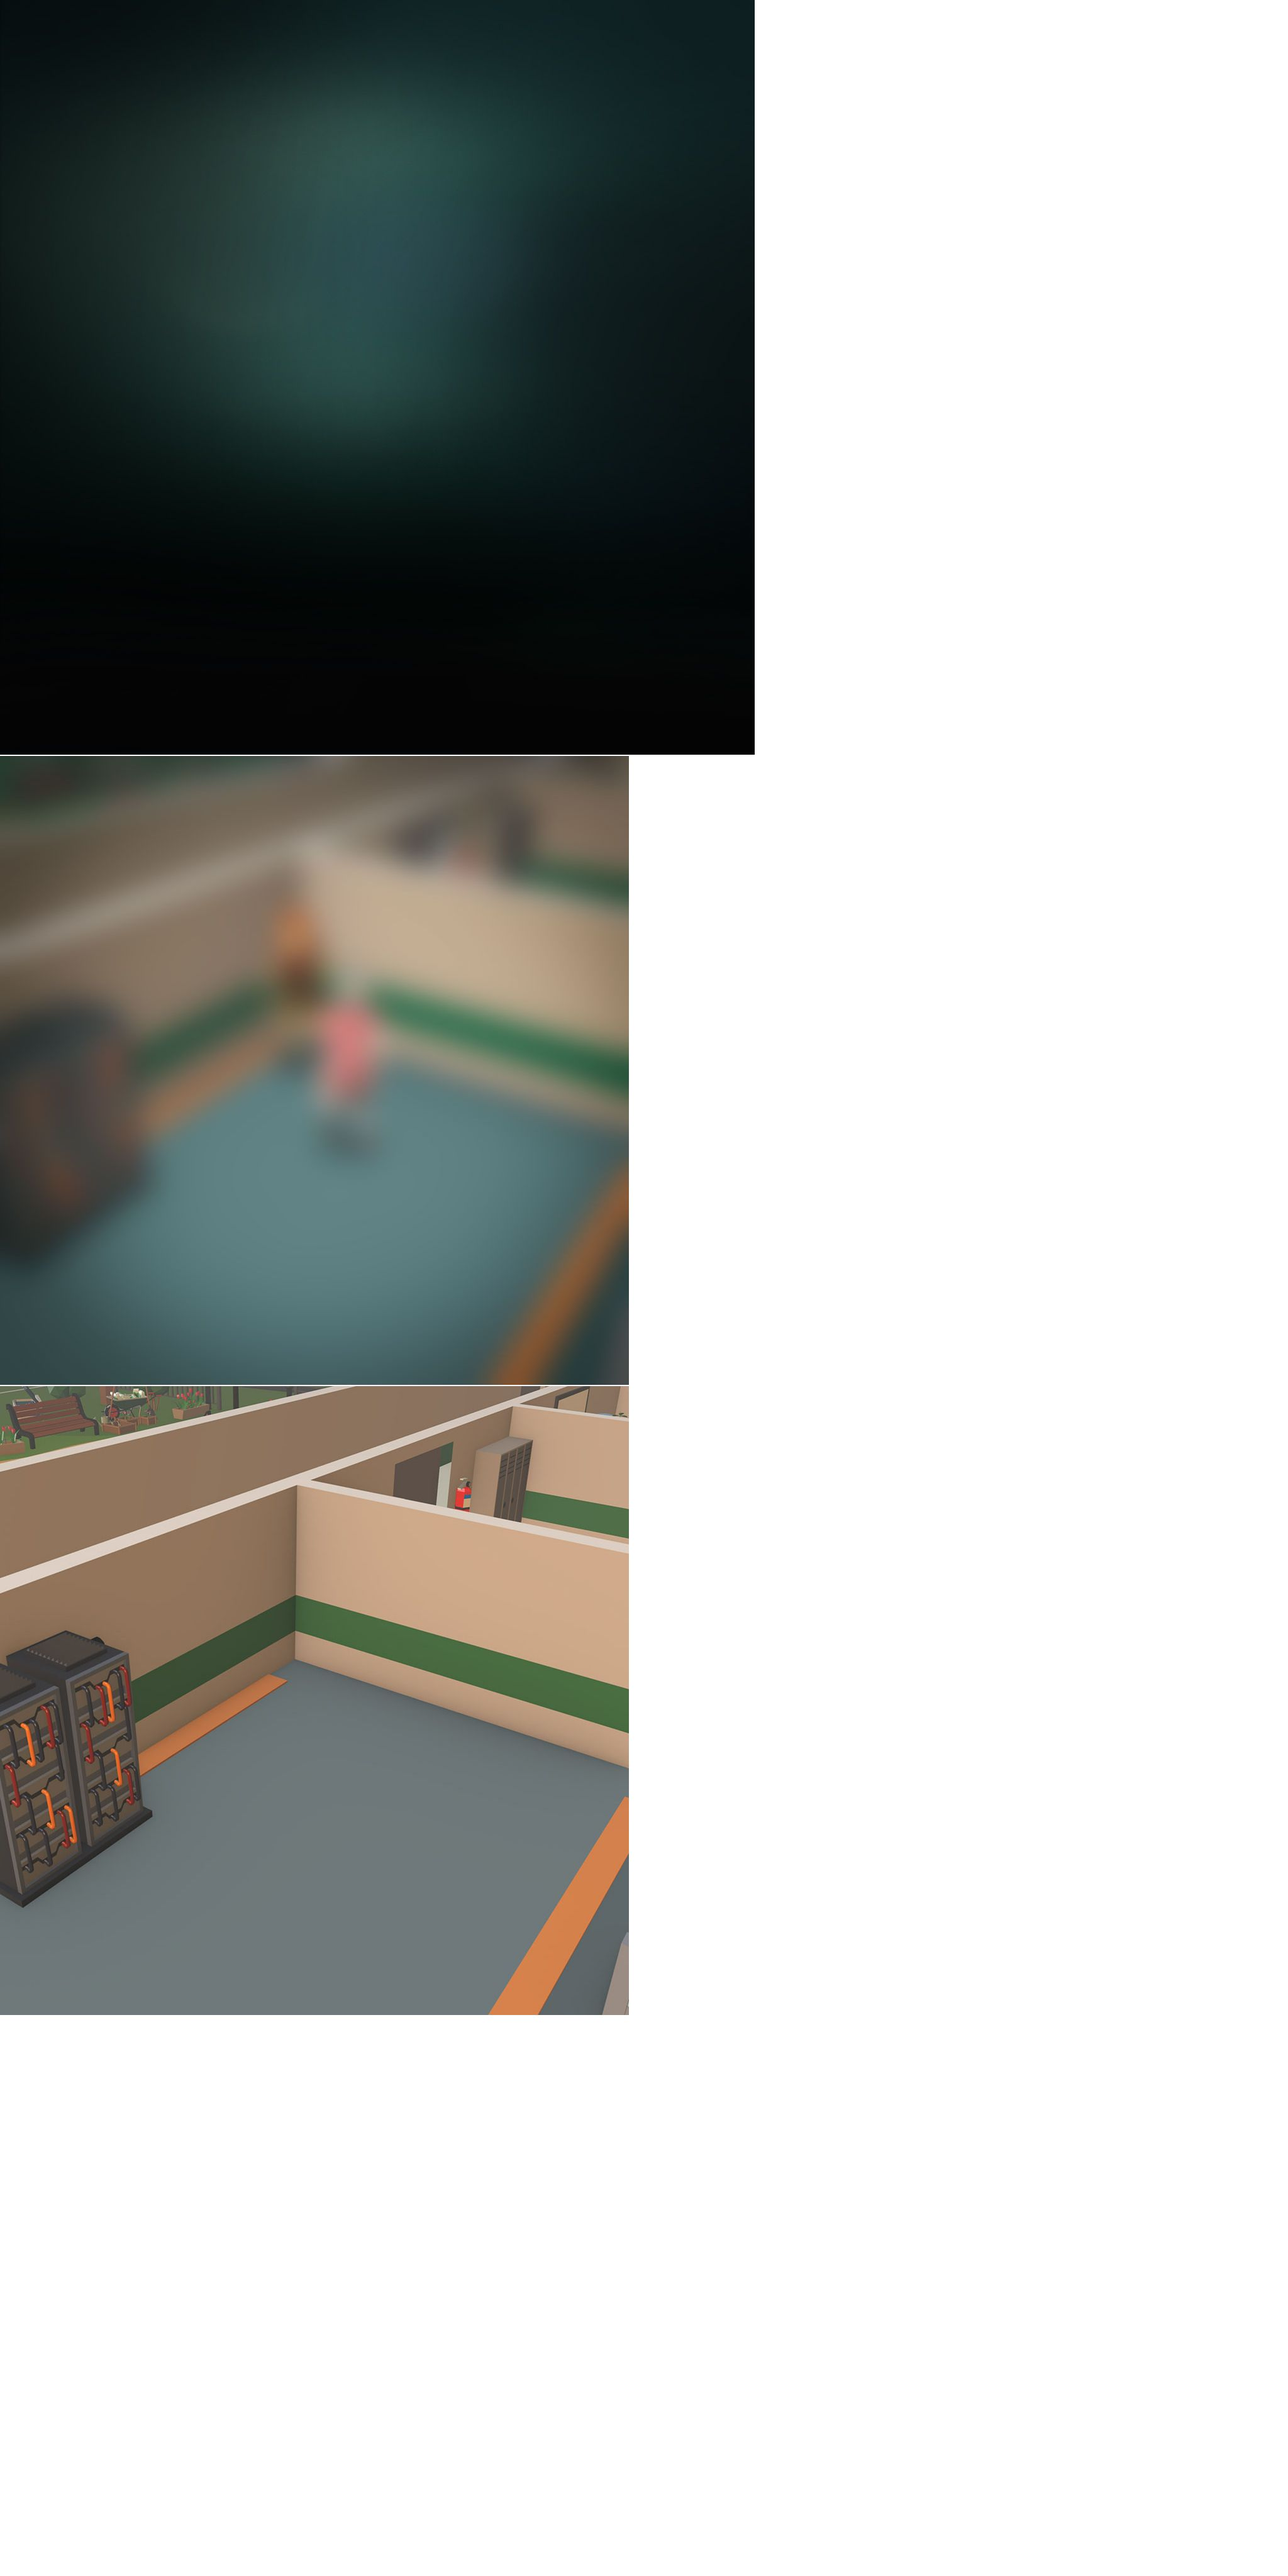
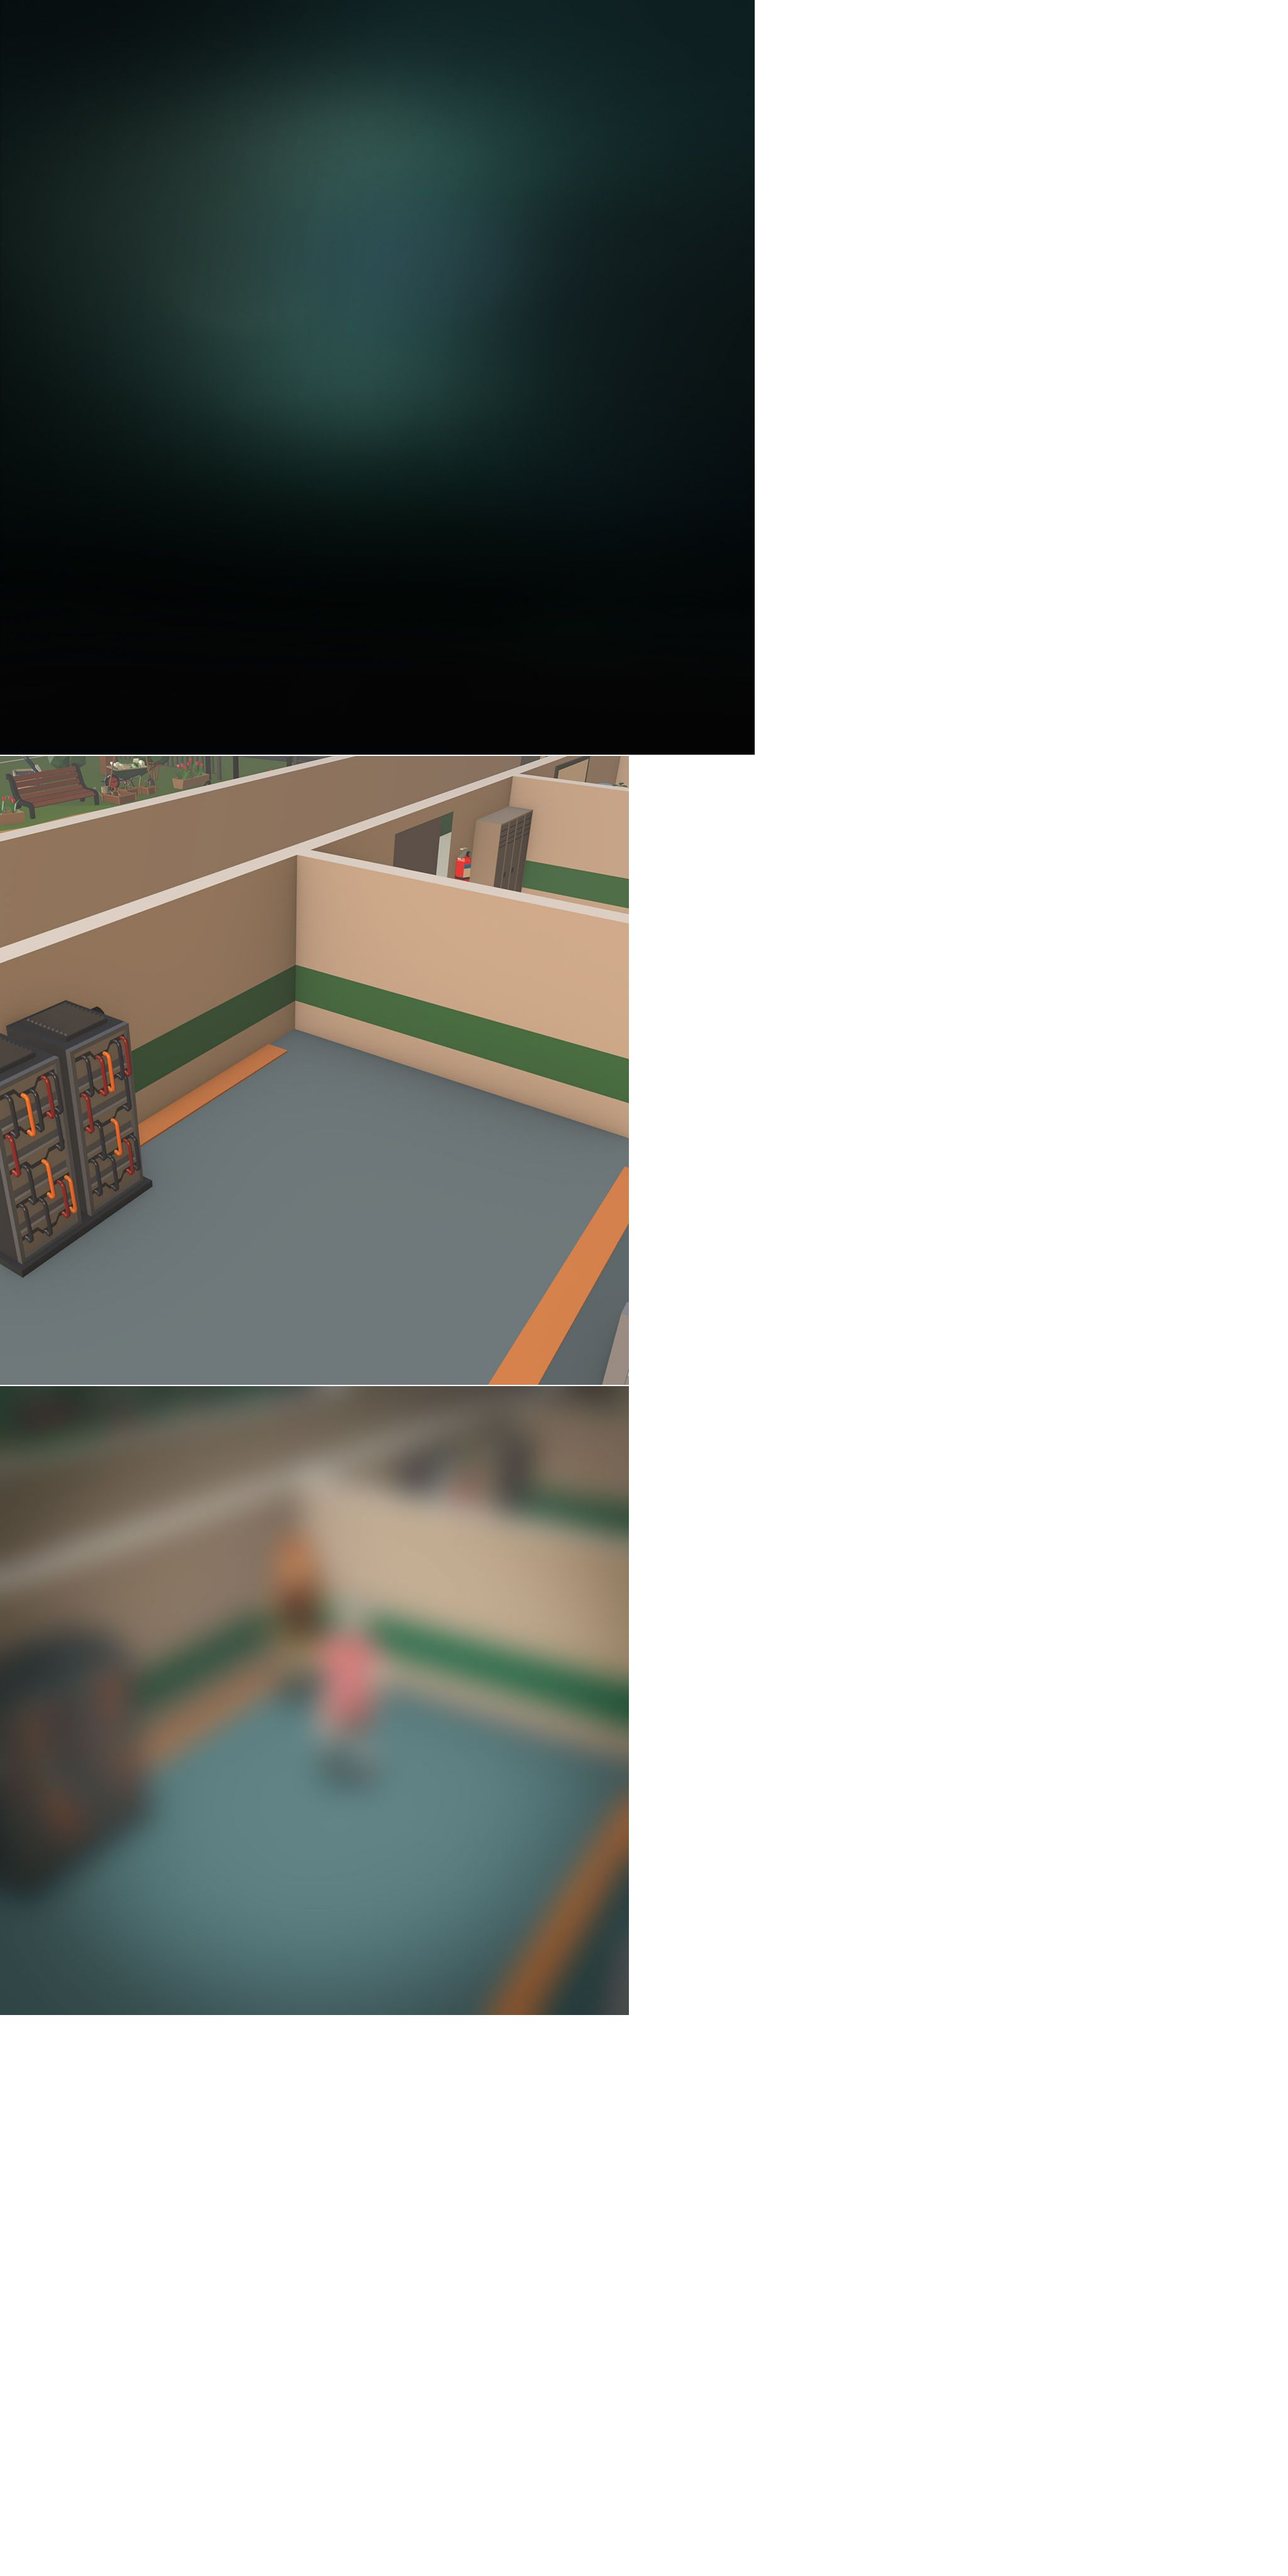
Add files via upload

Changed region(s): [[0.0, 0.2812, 0.5, 0.7812]]

diff --git a/index.html b/index.html
@@ -19,8 +19,8 @@
 var p; // shortcut to reference prototypes
 var lib={};var ss={};var img={};
 lib.ssMetadata = [
-		{name:"index_atlas_P_", frames: [[464,301,156,255],[3577,715,138,257],[766,468,156,243],[2715,889,133,257],[806,1261,138,224],[3170,614,156,233],[1993,1592,138,187],[1993,1781,138,175],[3857,1580,156,168],[3335,1829,138,169],[2661,1912,138,164],[2419,1812,156,150],[1965,1958,138,162],[2380,1964,138,161],[3598,1802,156,154],[417,1970,138,159],[2240,1840,138,168],[3835,1013,129,255],[635,1458,138,215],[3857,1750,138,177],[1375,1992,138,119],[3311,2000,138,111],[2217,2010,138,111],[3935,1997,138,115],[1679,1983,138,132],[1736,1809,138,172],[775,1487,138,213],[0,0,260,844],[3451,2062,300,49],[2341,447,265,147],[1601,446,143,274],[588,731,143,247],[395,753,142,246],[3779,470,160,236],[395,558,191,193],[1126,1745,188,132],[2407,0,208,243],[966,0,253,264],[1221,0,249,237],[1958,0,241,239],[1715,0,241,242],[1472,0,241,243],[3403,0,445,110],[664,0,300,251],[557,2089,200,72],[1056,1512,153,188],[1126,1879,161,144],[1221,239,176,237],[2924,1698,84,281],[216,1837,82,281],[107,1898,81,281],[3756,1764,83,281],[3010,1894,81,281],[1600,1982,77,281],[2883,1981,78,281],[1519,1960,79,280],[849,1902,81,280],[1880,1787,83,281],[332,1814,83,281],[932,1902,80,281],[2801,1941,80,280],[0,1932,80,280],[1014,1949,80,280],[2133,1881,82,280],[3119,1893,82,279],[3226,1830,83,280],[2577,1867,82,281],[1880,1543,111,242],[2667,1376,123,243],[250,1068,133,243],[2849,1148,131,243],[3835,1270,124,245],[497,1478,120,243],[539,980,133,249],[2276,596,146,251],[2424,596,146,250],[1665,936,135,249],[1602,1187,128,247],[1280,1020,134,243],[2880,619,145,249],[3941,470,147,254],[1746,682,143,252],[733,966,136,245],[1128,1273,128,237],[1211,1512,122,231],[3506,1499,117,238],[1774,1543,104,264],[3228,1582,105,246],[2604,1621,105,244],[2818,1698,104,241],[3012,1649,105,243],[3384,1580,105,247],[225,1590,105,245],[1630,1741,104,239],[3491,1739,105,237],[726,1702,105,238],[3119,1649,105,242],[2133,1635,105,244],[619,1675,105,240],[0,1691,105,239],[2711,1670,105,240],[915,1660,105,240],[110,1653,104,243],[2497,1559,105,251],[3170,465,265,147],[3577,486,163,227],[674,1213,130,243],[766,713,142,251],[1065,550,142,257],[3609,224,168,260],[3210,0,191,261],[2201,0,204,254],[2617,0,212,237],[3850,0,218,220],[3403,224,204,223],[1746,446,167,234],[1209,478,169,223],[2982,1179,132,240],[1416,1246,125,250],[2259,1096,124,260],[1802,981,124,267],[622,455,142,274],[2617,239,147,281],[3013,135,167,280],[2831,135,180,266],[3850,222,186,246],[1958,241,179,230],[1915,473,170,222],[2424,848,146,235],[1732,1250,128,242],[1819,2070,120,120],[1209,703,124,288],[1539,722,124,285],[262,787,124,279],[2880,870,124,276],[0,846,124,277],[2144,742,124,282],[3868,726,124,285],[910,741,123,286],[2020,742,122,287],[1335,731,123,287],[3742,708,124,288],[3455,733,120,288],[388,1001,115,287],[3278,1017,114,286],[2144,1026,113,287],[0,1125,112,287],[1014,1093,112,288],[3966,1013,114,288],[3157,849,119,288],[2572,788,141,245],[2412,1085,141,229],[1460,1009,140,235],[114,1129,130,245],[358,1567,106,245],[3997,1750,96,245],[1419,1745,98,245],[1022,1702,102,245],[1526,1713,102,245],[1316,1745,101,245],[3994,726,102,245],[3742,1517,113,245],[2572,1035,132,245],[3577,974,136,245],[505,1231,128,245],[1653,1494,119,245],[2312,1593,105,245],[3841,1929,92,245],[466,1723,102,245],[3625,1555,109,245],[1408,1498,116,245],[1280,1265,126,245],[2270,849,140,245],[871,1029,141,230],[2706,1148,141,226],[2831,0,377,133],[1096,2105,120,120],[262,0,400,299],[3403,112,445,110],[3475,1978,277,82],[1096,2025,277,78],[570,1942,277,83],[3182,263,200,200],[1399,245,200,200],[2766,403,200,200],[2407,245,200,200],[1715,244,200,200],[866,266,200,200],[664,253,200,200],[2968,417,200,200],[2139,256,200,200],[262,301,200,200],[1068,266,139,282],[2749,605,129,282],[126,846,122,281],[924,468,139,271],[1928,1031,139,233],[3131,1139,139,231],[2608,522,139,264],[3006,901,123,276],[3394,1023,117,278],[3715,998,118,280],[1035,809,122,282],[3328,733,125,282],[1891,697,127,282],[262,503,131,282],[1399,447,138,282],[3437,449,138,282],[2139,458,135,282],[3027,619,128,280],[1159,993,119,278],[3513,1221,114,276],[1975,1266,111,275],[1862,1266,111,275],[3116,1372,110,275],[2385,1316,110,275],[2088,1315,110,275],[3961,1303,110,275],[3394,1303,110,275],[2200,1358,110,275],[385,1290,110,275],[3272,1305,110,275],[3629,1280,111,273],[246,1313,110,275],[0,1414,108,275],[2902,1421,108,275],[1543,1436,108,275],[2792,1393,108,275],[946,1383,108,275],[114,1376,109,275],[2555,1282,110,275],[1601,245,104,122],[1218,2113,280,48],[557,2027,280,60],[2661,2078,120,120]]},
-		{name:"index_atlas_NP_", frames: [[0,2204,1000,1000],[0,1202,1000,1000],[0,0,1200,1200]]}
+		{name:"index_atlas_P_", frames: [[464,301,156,255],[3577,715,138,257],[766,468,156,243],[2715,889,133,257],[806,1261,138,224],[3170,614,156,233],[1993,1592,138,187],[1993,1781,138,175],[3857,1580,156,168],[3335,1829,138,169],[2661,1912,138,164],[2419,1812,156,150],[1965,1958,138,162],[2380,1964,138,161],[3598,1802,156,154],[417,1970,138,159],[2240,1840,138,168],[3835,1013,129,255],[635,1458,138,215],[3857,1750,138,177],[1375,1992,138,119],[3311,2000,138,111],[2217,2010,138,111],[3935,1997,138,115],[1679,1983,138,132],[1736,1809,138,172],[775,1487,138,213],[0,0,260,844],[3451,2062,300,49],[2341,447,265,147],[1601,446,143,274],[588,731,143,247],[395,753,142,246],[3779,470,160,236],[395,558,191,193],[1126,1745,188,132],[2407,0,208,243],[966,0,253,264],[1221,0,249,237],[1958,0,241,239],[1715,0,241,242],[1472,0,241,243],[3403,0,445,110],[664,0,300,251],[557,2089,200,72],[1056,1512,153,188],[1126,1879,161,144],[1221,239,176,237],[2924,1698,84,281],[216,1837,82,281],[3010,1894,81,281],[3756,1764,83,281],[107,1898,81,281],[1600,1982,77,281],[2883,1981,78,281],[1519,1960,79,280],[849,1902,81,280],[1880,1787,83,281],[332,1814,83,281],[932,1902,80,281],[0,1932,80,280],[2801,1941,80,280],[1014,1949,80,280],[2133,1881,82,280],[3119,1893,82,279],[3226,1830,83,280],[2577,1867,82,281],[1880,1543,111,242],[2667,1376,123,243],[250,1068,133,243],[2849,1148,131,243],[3835,1270,124,245],[497,1478,120,243],[539,980,133,249],[2276,596,146,251],[2424,596,146,250],[1665,936,135,249],[1602,1187,128,247],[1280,1020,134,243],[2880,619,145,249],[3941,470,147,254],[1746,682,143,252],[733,966,136,245],[1128,1273,128,237],[1211,1512,122,231],[3506,1499,117,238],[1774,1543,104,264],[3228,1582,105,246],[2604,1621,105,244],[2818,1698,104,241],[3012,1649,105,243],[3384,1580,105,247],[225,1590,105,245],[1630,1741,104,239],[3491,1739,105,237],[726,1702,105,238],[3119,1649,105,242],[2133,1635,105,244],[2711,1670,105,240],[0,1691,105,239],[619,1675,105,240],[915,1660,105,240],[110,1653,104,243],[2497,1559,105,251],[3170,465,265,147],[3577,486,163,227],[674,1213,130,243],[766,713,142,251],[1065,550,142,257],[3609,224,168,260],[3210,0,191,261],[2201,0,204,254],[2617,0,212,237],[3850,0,218,220],[3403,224,204,223],[1746,446,167,234],[1209,478,169,223],[2982,1179,132,240],[1416,1246,125,250],[2259,1096,124,260],[1802,981,124,267],[622,455,142,274],[2617,239,147,281],[3013,135,167,280],[2831,135,180,266],[3850,222,186,246],[1958,241,179,230],[1915,473,170,222],[2424,848,146,235],[1732,1250,128,242],[1819,2070,120,120],[1209,703,124,288],[3868,726,124,285],[262,787,124,279],[2880,870,124,276],[0,846,124,277],[2144,742,124,282],[1539,722,124,285],[910,741,123,286],[2020,742,122,287],[1335,731,123,287],[3742,708,124,288],[3455,733,120,288],[388,1001,115,287],[3278,1017,114,286],[2144,1026,113,287],[0,1125,112,287],[1014,1093,112,288],[3966,1013,114,288],[3157,849,119,288],[2572,788,141,245],[2412,1085,141,229],[1460,1009,140,235],[114,1129,130,245],[358,1567,106,245],[3997,1750,96,245],[1419,1745,98,245],[3994,726,102,245],[1526,1713,102,245],[1316,1745,101,245],[1022,1702,102,245],[3742,1517,113,245],[2572,1035,132,245],[3577,974,136,245],[505,1231,128,245],[1653,1494,119,245],[2312,1593,105,245],[3841,1929,92,245],[466,1723,102,245],[3625,1555,109,245],[1408,1498,116,245],[1280,1265,126,245],[2270,849,140,245],[871,1029,141,230],[2706,1148,141,226],[2831,0,377,133],[2661,2078,120,120],[262,0,400,299],[3403,112,445,110],[3475,1978,277,82],[1096,2025,277,78],[570,1942,277,83],[1399,245,200,200],[664,253,200,200],[2139,256,200,200],[2407,245,200,200],[3182,263,200,200],[262,301,200,200],[2968,417,200,200],[866,266,200,200],[1715,244,200,200],[2766,403,200,200],[1068,266,139,282],[2749,605,129,282],[126,846,122,281],[924,468,139,271],[1928,1031,139,233],[3131,1139,139,231],[2608,522,139,264],[3006,901,123,276],[3394,1023,117,278],[3715,998,118,280],[1035,809,122,282],[3328,733,125,282],[1891,697,127,282],[262,503,131,282],[1399,447,138,282],[3437,449,138,282],[2139,458,135,282],[3027,619,128,280],[1159,993,119,278],[3513,1221,114,276],[1975,1266,111,275],[1862,1266,111,275],[2555,1282,110,275],[3272,1305,110,275],[385,1290,110,275],[2200,1358,110,275],[3394,1303,110,275],[2385,1316,110,275],[3961,1303,110,275],[246,1313,110,275],[3629,1280,111,273],[2088,1315,110,275],[946,1383,108,275],[2902,1421,108,275],[2792,1393,108,275],[0,1414,108,275],[1543,1436,108,275],[114,1376,109,275],[3116,1372,110,275],[1601,245,104,122],[1218,2113,280,48],[557,2027,280,60],[1096,2105,120,120]]},
+		{name:"index_atlas_NP_", frames: [[0,1202,1000,1000],[0,2204,1000,1000],[0,0,1200,1200]]}
 ];
 // symbols:
 (lib.attack_00000min = function() {
@@ -3028,10 +3028,14 @@ p.nominalBounds = new cjs.Rectangle(49.2,-35.5,308.5,69.3);
 		function visibilityChangeHandler() {
 			if (document.hidden) {
 				footsteps.volume = 0;
+				woman.volume = 0;
+				zombieFX.volume = 0;
 				musicBG.volume = 0;
 			} else {
 				if (musicBG.canBePlayed) {
 					footsteps.volume = 1;
+					woman.volume = 1;
+					zombieFX.volume = 1;
 					musicBG.volume = 1;
 					musicBG.play();
 				}
@@ -3189,8 +3193,8 @@ lib.properties = {
 	color: "#FFFFFF",
 	opacity: 1.00,
 	manifest: [
-		{src:"index_atlas_P_.png?1657273413294", id:"index_atlas_P_"},
-		{src:"index_atlas_NP_.jpg?1657273413294", id:"index_atlas_NP_"}
+		{src:"index_atlas_P_.png?1657278247935", id:"index_atlas_P_"},
+		{src:"index_atlas_NP_.jpg?1657278247935", id:"index_atlas_NP_"}
 	],
 	preloads: []
 };
@@ -3264,6 +3268,9 @@ function handleComplete(evt,comp) {
 	for(i=0; i<ssMetadata.length; i++) {
 		ss[ssMetadata[i].name] = new createjs.SpriteSheet( {"images": [queue.getResult(ssMetadata[i].name)], "frames": ssMetadata[i].frames} )
 	}
+	var preloaderDiv = document.getElementById("_preload_div_");
+	preloaderDiv.style.display = 'none';
+	canvas.style.display = 'block';
 	exportRoot = new lib.index();
 	stage = new lib.Stage(canvas);
 	stage.enableMouseOver();	
@@ -3297,8 +3304,8 @@ function handleComplete(evt,comp) {
 			}			
 			canvas.width = w*pRatio*sRatio;			
 			canvas.height = h*pRatio*sRatio;
-			canvas.style.width = dom_overlay_container.style.width = anim_container.style.width =  w*sRatio+'px';				
-			canvas.style.height = anim_container.style.height = dom_overlay_container.style.height = h*sRatio+'px';
+			canvas.style.width = anim_container.style.width = dom_overlay_container.style.width = preloaderDiv.style.width = w*sRatio+'px';				
+			canvas.style.height = anim_container.style.height = dom_overlay_container.style.height = preloaderDiv.style.height = h*sRatio+'px';
 			stage.scaleX = pRatio*sRatio;			
 			stage.scaleY = pRatio*sRatio;			
 			lastW = iw; lastH = ih; lastS = sRatio;            
@@ -3315,10 +3322,11 @@ function handleComplete(evt,comp) {
 <!-- write your code here -->
 </head>
 <body onload="init();" style="margin:0px;">
-	<div id="animation_container" style="background-color:rgba(255, 255, 255, 1.00); width:200px; height:200px">
-		<canvas id="canvas" width="200" height="200" style="position: absolute; display: block; background-color:rgba(255, 255, 255, 1.00);"></canvas>
-		<div id="dom_overlay_container" style="pointer-events:none; overflow:hidden; width:200px; height:200px; position: absolute; left: 0px; top: 0px; display: block;">
+	<div id="animation_container" style="background-color:rgba(255, 255, 255, 1.00); width:100%; height:100%">
+		<canvas id="canvas" width="100%" height="100%" style="position: absolute; display: none; background-color:rgba(255, 255, 255, 1.00);"></canvas>
+		<div id="dom_overlay_container" style="pointer-events:none; overflow:hidden; width:100%; height:100%; position: absolute; left: 0px; top: 0px; display: none;">
 		</div>
 	</div>
+    <div id='_preload_div_' style='position:absolute; top:0; left:0; display: inline-block; height:100%; width: 100%; text-align: center;'>	<span style='display: inline-block; height: 100%; vertical-align: middle;'></span>	<img src=_preloader.gif style='vertical-align: middle; max-height: 100%'/></div>
 </body>
 </html>
